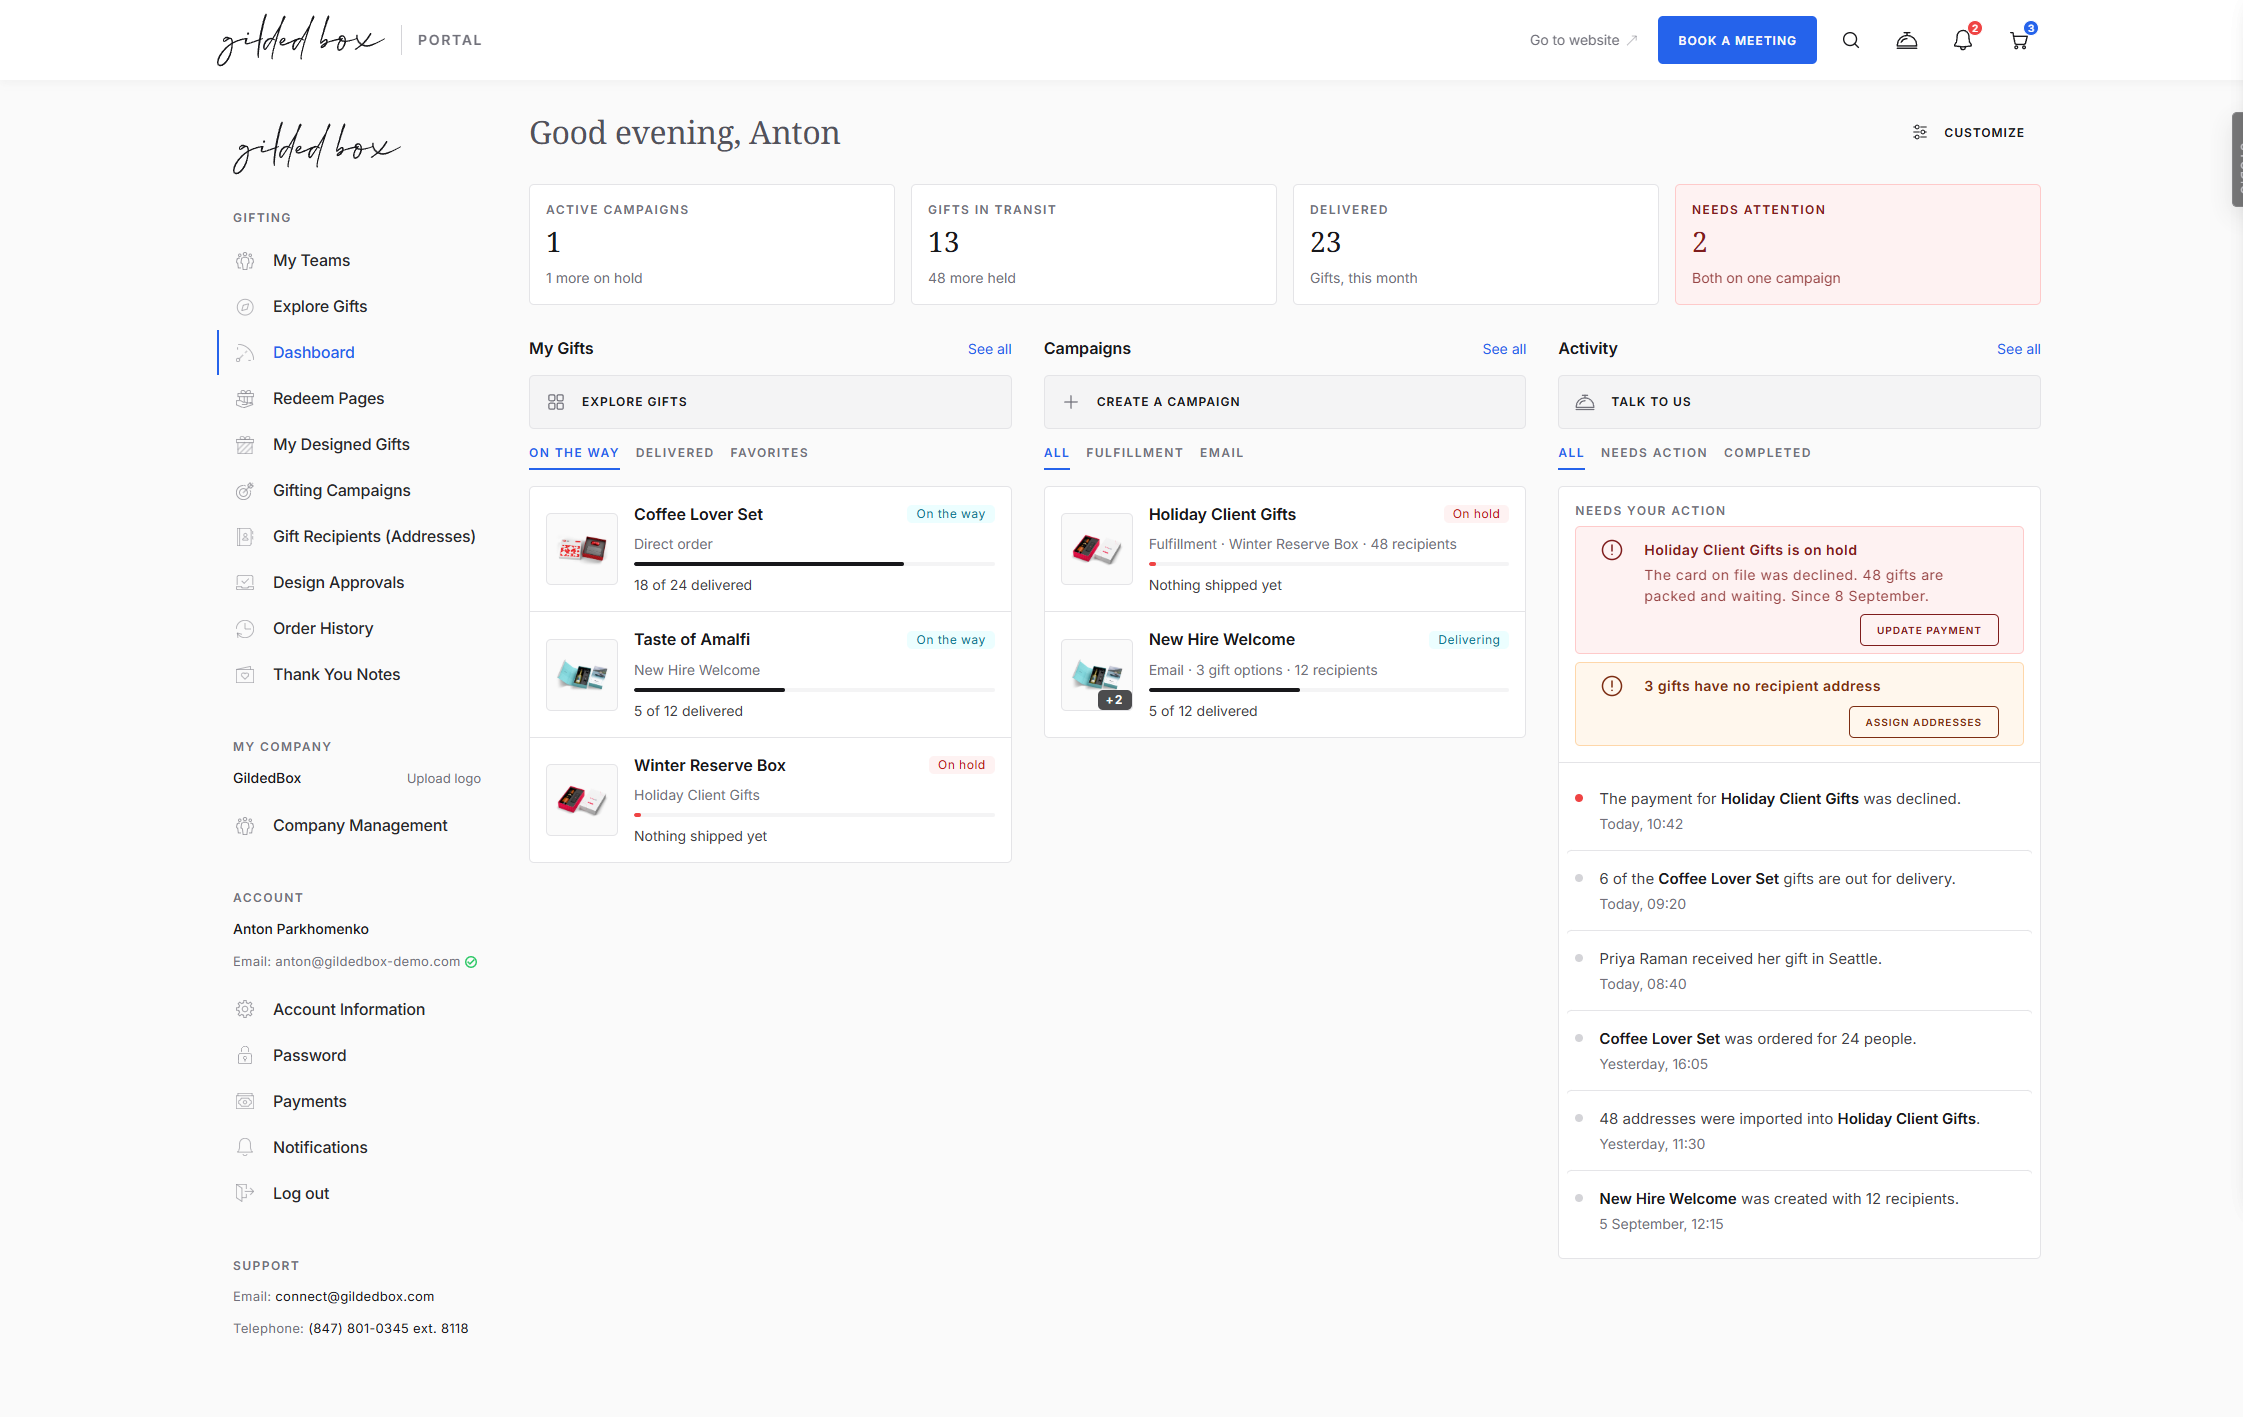
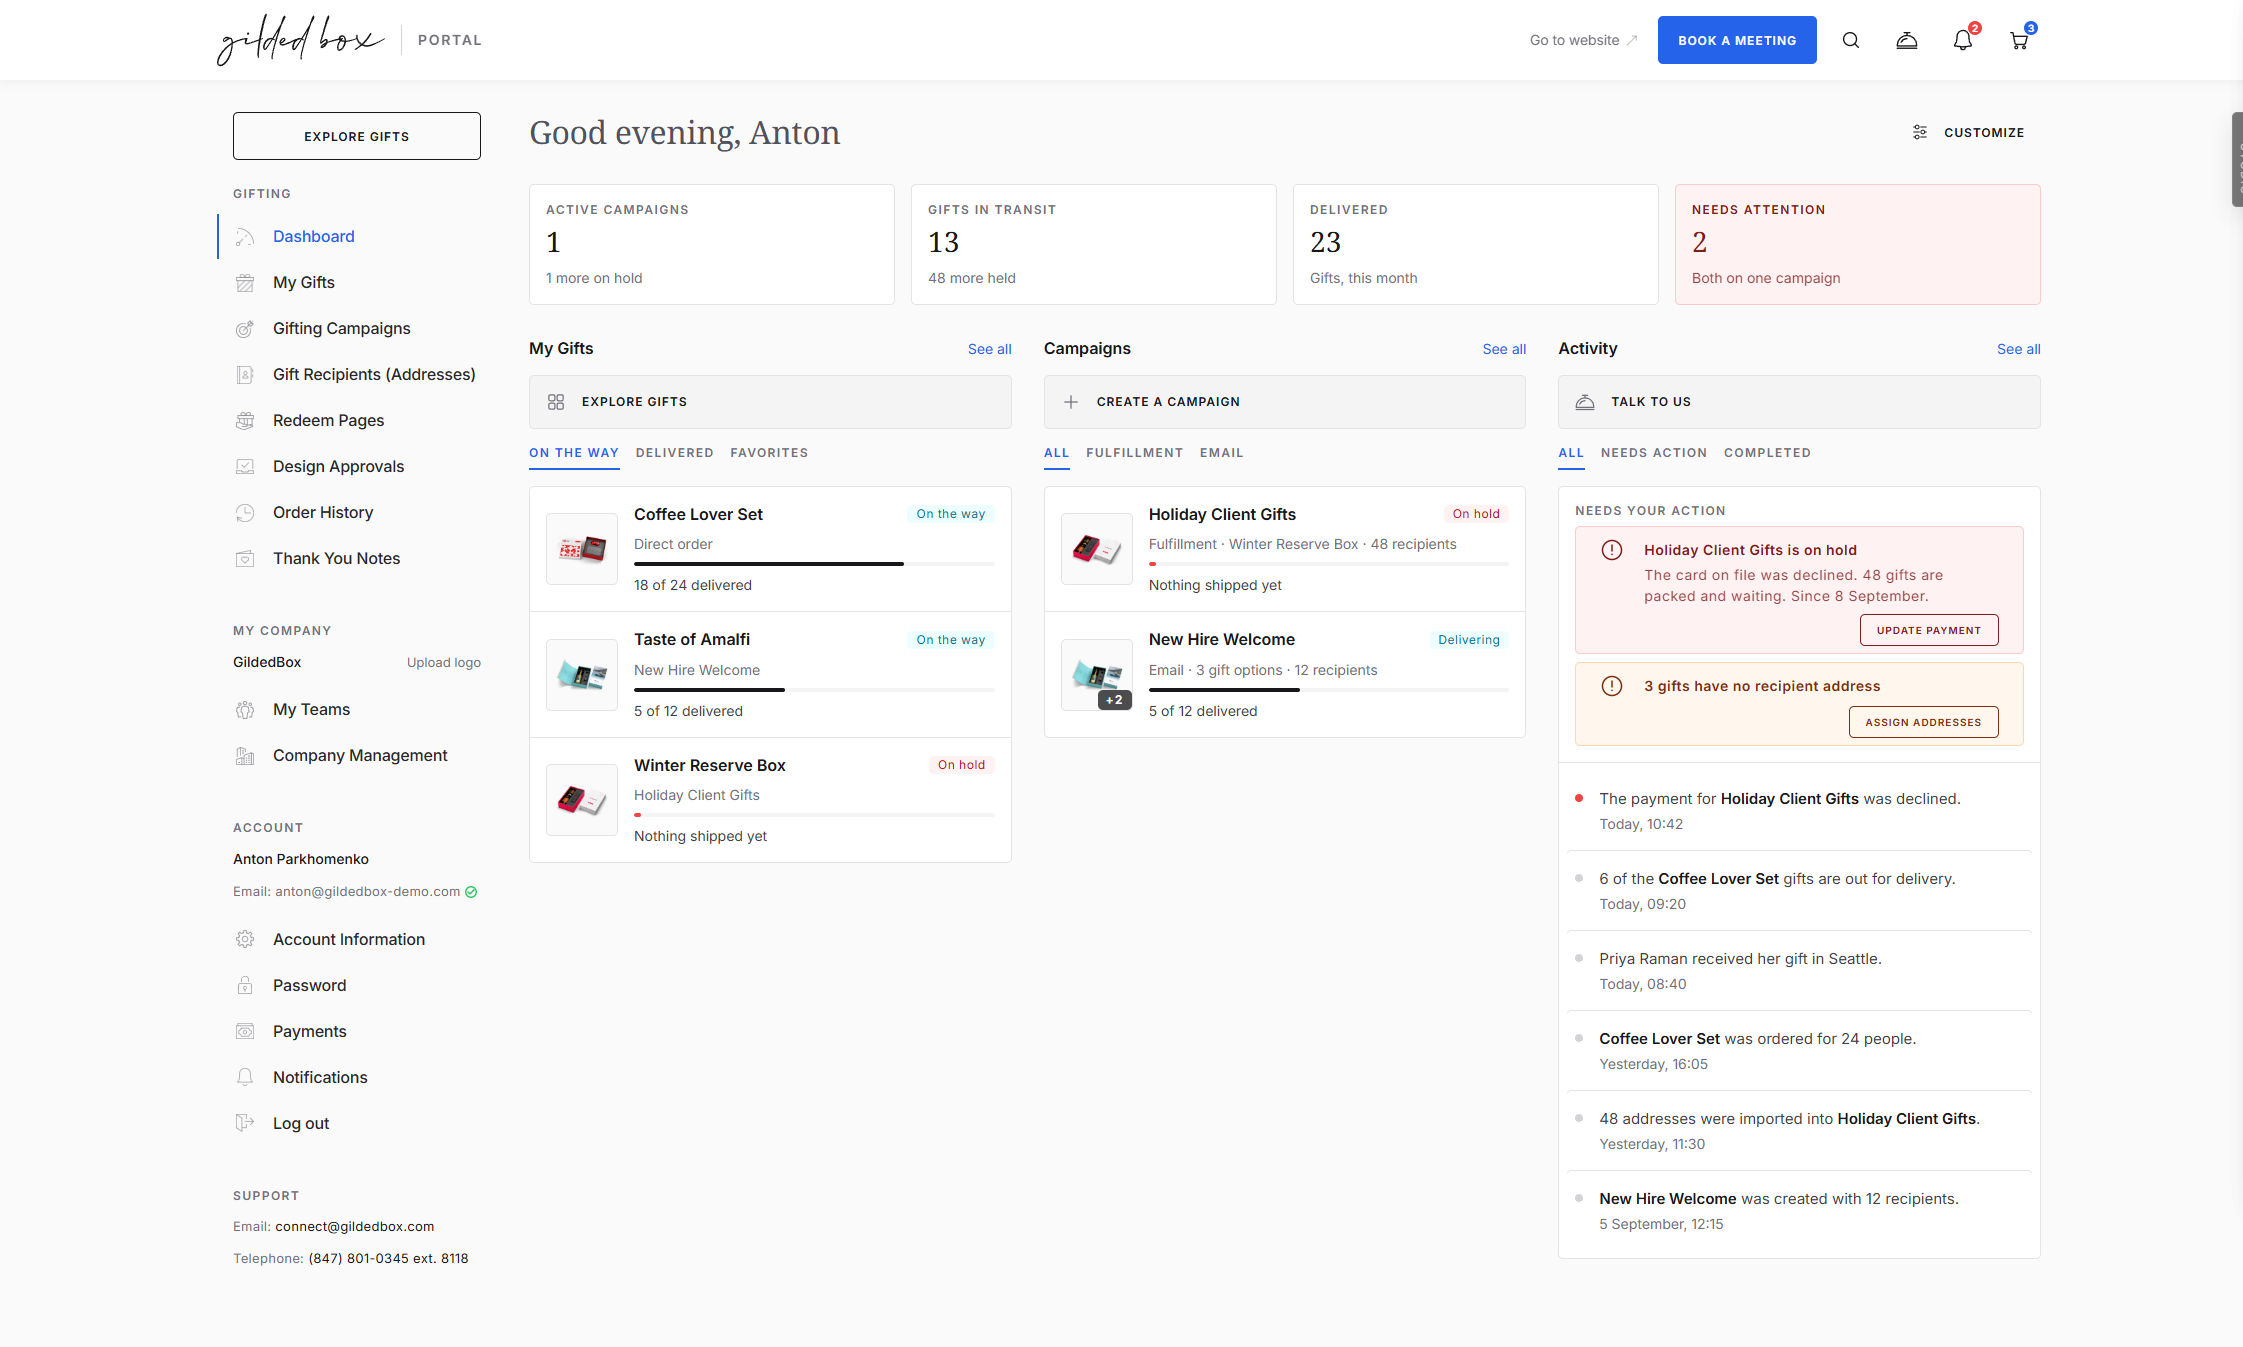
feat(portal): the rail is grouped by meaning and the catalogue panel shows nothing but gifts
THE RAIL, REGROUPED to Ton's four rules, with ren as the base and
not the copy. The masthead logo is gone: the page has a bar with the
wordmark and two logos on one screen is nonsense. Explore gifts is a
BUTTON at the head of the rail instead of a row in the menu, because
it opens the catalogue over the page rather than taking you
somewhere, and it is outline rather than filled: a rail of quiet
rows is not the place for the loudest object on the screen.
Dashboard stands first and My Gifts (ren's «My Designed Gifts»,
renamed) right behind it. My Teams left Gifting for My Company,
because it names the PEOPLE OF THE ORGANISATION and not a kind of
gift, and it sits beside Company Management, which is the other
door to the same people.

THE CATALOGUE PANEL IS NAV AND GIFTS. ?embed=1 is v1's own flag and
it does take the bundle's header off, but the page we frame is OUR
wrapper: it wears the system header and the catalogue hero on top of
the app, and in a panel opened over a portal both are furniture the
person already has. The frame is same-origin, so the overlay tells
the document inside it what not to draw, once per load, and nothing
in the vendored copy has to be forked for a showcase.

diff --git a/live/portal-dashboard.html b/live/portal-dashboard.html
@@ -1419,9 +1419,15 @@ body[data-nav="ton"] .snav-icon img { max-width: 18px; max-height: 18px; opacity
    section (the 40 rhythm is section to section), and Upload logo is
    the quiet 13px text link that stands at the right end of the
    company row. */
-.masthead-inner { padding: 8px var(--space-16); display: flex; justify-content: flex-start; }
-.masthead-logo { display: block; width: 168px; height: 56px; }
-body[data-nav="ton"] .masthead + .snav-block { margin-top: var(--space-24); }
+/* The masthead is gone with its logo (the bar has one). What stands
+   at the head of the rail now is the door to the catalogue: a
+   button, because it opens something over the page rather than
+   taking you somewhere, and outline rather than filled because a
+   rail of quiet rows is not the place for the loudest object on the
+   screen. It keeps the section rhythm: 24 to the first group, the
+   same tighter step the wordmark used to take. */
+.snav-explore { padding: 0 var(--space-16); }
+.snav-explore + .snav-block { margin-top: var(--space-24); }
 .company-block .snav-info .snav-row { justify-content: space-between; }
 .upload-logo {
   font-size: 13px;                  /* LIVE portal ren: the quiet text link */
@@ -1606,24 +1612,41 @@ html[data-gbppd-state="empty"] .gbppd-filled { display: none; }
            that is the page you are standing on), and Explore Gifts
            opens the catalogue overlay ON THIS PAGE through the same
            data-gbppd-catalog door the block action uses. -->
+      <!-- ============ THE RAIL, REGROUPED ============
+           gbppl-portal-dashboard-11 (Ton, night of 10.09). ren is the
+           base, not the copy, and four of his rules shape it:
+
+             the masthead LOGO IS GONE — the page already has a bar
+               with the wordmark in it, and two logos on one screen is
+               nonsense;
+             EXPLORE GIFTS IS A BUTTON at the head of the rail, not a
+               row in a menu: it is an action that opens the catalogue
+               over the page, and it should not queue with the places
+               you can go;
+             DASHBOARD IS FIRST, and «My Designed Gifts» is MY GIFTS
+               standing right behind it: the two things a person comes
+               here for;
+             MY TEAMS LEFT GIFTING for My Company, because it names
+               the PEOPLE OF THE ORGANISATION and not a kind of gift;
+               it sits with Company Management, which is the other
+               door to the same people.
+           The rest of Gifting keeps ren's names and its order. -->
       <aside class="sidebar">
 
-        <section class="snav-block masthead">
-          <div class="masthead-inner">
-            <a href="portal.html"><img class="masthead-logo" src="../system/icons/gildedbox-logo.svg" alt="GildedBox"></a>
-          </div>
-        </section>
+        <div class="snav-explore">
+          <a class="gb-btn gb-btn--medium gb-btn--outline gb-btn--secondary gb-btn--block" href="catalog/index.html" data-gbppd-catalog>
+            <span class="gb-btn__label">Explore gifts</span>
+          </a>
+        </div>
 
         <section class="snav-block">
           <header class="snav-header"><span class="snav-title">Gifting</span></header>
           <nav class="snav-menu">
-          <a class="snav-item" href="portal.html"><span class="snav-icon"><img src="../system/icons/crowd-2.svg" alt=""></span><span class="snav-label">My Teams</span></a>
-          <a class="snav-item" href="catalog/index.html" data-gbppd-catalog><span class="snav-icon"><img src="../system/icons/explore.svg" alt=""></span><span class="snav-label">Explore Gifts</span></a>
           <a class="snav-item active" href="#"><span class="snav-icon"><img src="../system/icons/metrics.svg" alt=""></span><span class="snav-label">Dashboard</span></a>
-          <a class="snav-item" href="portal.html"><span class="snav-icon"><img src="../system/icons/gift-exchange.svg" alt=""></span><span class="snav-label">Redeem Pages</span></a>
-          <a class="snav-item" href="portal.html"><span class="snav-icon"><img src="../system/icons/gift.svg" alt=""></span><span class="snav-label">My Designed Gifts</span></a>
+          <a class="snav-item" href="portal.html"><span class="snav-icon"><img src="../system/icons/gift.svg" alt=""></span><span class="snav-label">My Gifts</span></a>
           <a class="snav-item" href="portal.html"><span class="snav-icon"><img src="../system/icons/archery-target.svg" alt=""></span><span class="snav-label">Gifting Campaigns</span></a>
           <a class="snav-item" href="portal.html"><span class="snav-icon"><img src="../system/icons/address-book.svg" alt=""></span><span class="snav-label">Gift Recipients (Addresses)</span></a>
+          <a class="snav-item" href="portal.html"><span class="snav-icon"><img src="../system/icons/gift-exchange.svg" alt=""></span><span class="snav-label">Redeem Pages</span></a>
           <a class="snav-item" href="portal.html"><span class="snav-icon"><img src="../system/icons/laptop-check.svg" alt=""></span><span class="snav-label">Design Approvals</span></a>
           <a class="snav-item" href="portal.html"><span class="snav-icon"><img src="../system/icons/time-machine.svg" alt=""></span><span class="snav-label">Order History</span></a>
           <a class="snav-item" href="portal.html"><span class="snav-icon"><img src="../system/icons/love-card.svg" alt=""></span><span class="snav-label">Thank You Notes</span></a>
@@ -1636,7 +1659,8 @@ html[data-gbppd-state="empty"] .gbppd-filled { display: none; }
             <div class="snav-row"><span class="snav-name">GildedBox</span><a class="upload-logo" href="#">Upload logo</a></div>
           </div>
           <nav class="snav-menu">
-          <a class="snav-item" href="portal.html"><span class="snav-icon"><img src="../system/icons/crowd-2.svg" alt=""></span><span class="snav-label">Company Management</span></a>
+          <a class="snav-item" href="portal.html"><span class="snav-icon"><img src="../system/icons/crowd-2.svg" alt=""></span><span class="snav-label">My Teams</span></a>
+          <a class="snav-item" href="portal.html"><span class="snav-icon"><img src="../system/icons/office.svg" alt=""></span><span class="snav-label">Company Management</span></a>
           </nav>
         </section>
 

diff --git a/live/catalog-overlay.js b/live/catalog-overlay.js
@@ -95,8 +95,34 @@
     mount();
     if (!frame.getAttribute('src')) frame.setAttribute('src', frame.getAttribute('data-src'));
   }
+  /* THE SHOWCASE IS NAV AND GIFTS, NOTHING ELSE (Ton, night of
+     10.09). ?embed=1 is v1's own flag and it takes the bundle's
+     header off, but the page we frame is OUR wrapper: it wears the
+     system header and the catalogue hero on top of the app, and in
+     a panel that opens over a portal both are furniture the person
+     already has. The frame is same-origin, so the overlay says so
+     to the document inside it, once per load, and nothing in the
+     vendored copy has to be forked for a showcase. */
+  var STRIP =
+    'gb-site-header,gb-site-footer,gb-catalog-hero,' +
+    '#root header.site-header,#root footer.footer,#root section.category-hero,' +
+    '#root section.experience,gb-banner-conversation,gb-advantages,' +
+    'button.back-to-top,button.floating-gifting-help{display:none!important}' +
+    '.category-nav{top:0!important}' +
+    'html{scroll-padding-top:0!important}';
+  function strip() {
+    try {
+      var d = frame.contentDocument;
+      if (!d || d.getElementById('gbppd-cat-strip')) return;
+      var st = d.createElement('style');
+      st.id = 'gbppd-cat-strip';
+      st.textContent = STRIP;
+      (d.head || d.documentElement).appendChild(st);
+    } catch (e) {}   /* a cross-origin frame keeps its own chrome, and that is honest */
+  }
   frame.addEventListener('load', function () {
     loaded = true;
+    strip();
     if (overlay.classList.contains('open')) reveal();
   });
   function reveal() {
